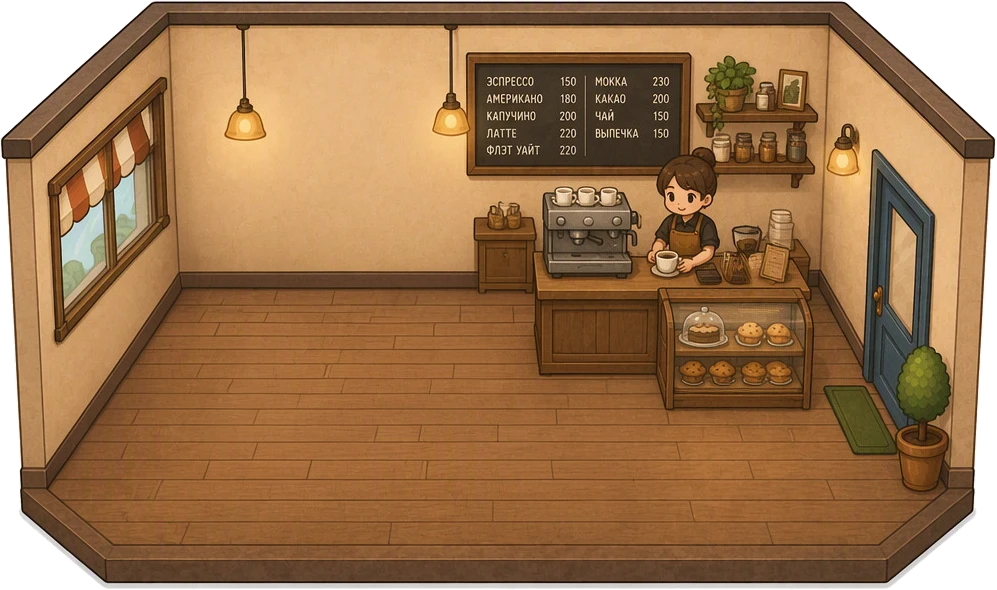
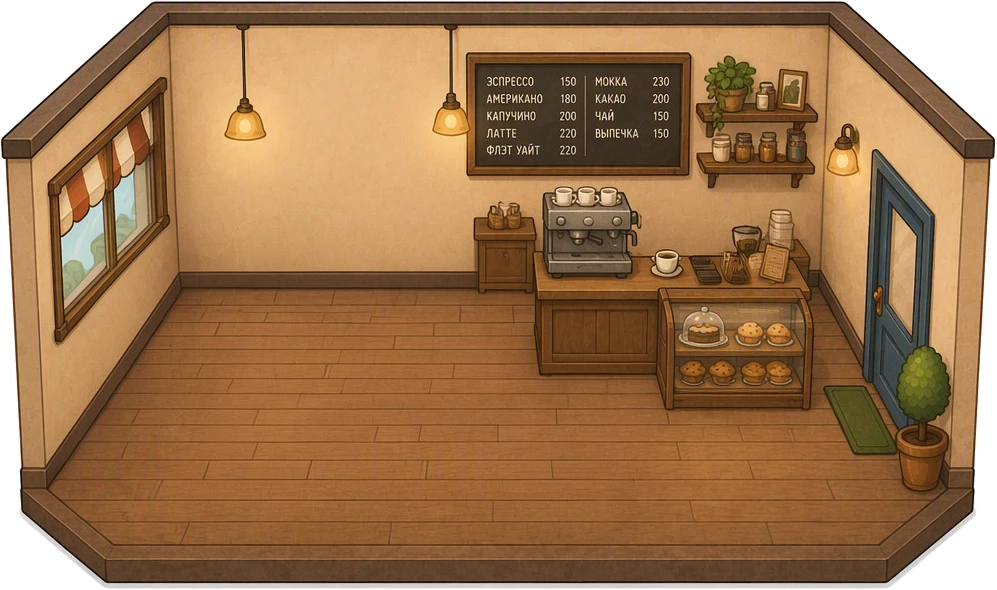
Зал кафе: бариста отдельным слоем — виден только на смене; комната без него (Magnific preciseEdit)
Claude-Session: https://claude.ai/code/session_01DHEiVcyPj9Qv6m6TjqeSZK

Changed region(s): [[0.653, 0.2441, 0.7462, 0.4881]]

diff --git a/src/game/hall.ts b/src/game/hall.ts
@@ -118,6 +118,9 @@ function menuBoard(sim: Simulation | null): string {
   return `<div class="hall-board" style="${style}" aria-label="Меню на доске"><ul>${rows}</ul></div>`;
 }
 
+/** Бариста за стойкой — отдельный слой размером с комнату (scripts/cut_hall.py): только когда он на смене */
+const baristaLayer = `<img class="hall-barista" src="${art('barista')}" alt="Бариста за стойкой">`;
+
 /** Миниатюра комплектации: тот же зал из тех же кусков, без кнопок и гостей */
 function miniHall(layout: Partial<Record<string, FurnitureId>>): string {
   const rug = layout.rug === 'rug';
@@ -199,7 +202,7 @@ export function hallTab(sim: Simulation, selected: string | null): string {
   }
 
   return `
-    <div class="hall" style="background-image:url(${roomUrl})">${menuBoard(sim)}${things}</div>
+    <div class="hall" style="background-image:url(${roomUrl})">${menuBoard(sim)}${sim.cafe.baristas > 0 ? baristaLayer : ''}${things}</div>
     ${stats}
     <h4>Готовые комплектации</h4>
     <small>Выбрал${NB}— поставил. Лишнее продаётся за${NB}полцены, совпадающее остаётся.</small>

diff --git a/src/style.css b/src/style.css
@@ -2740,3 +2740,11 @@ small.comp {
   font-weight: 700;
   color: #fff3d6;
 }
+.hall-barista {
+  position: absolute;
+  inset: 0;
+  width: 100%;
+  height: 100%;
+  z-index: 2;
+  pointer-events: none;
+}

diff --git a/scripts/cut_hall.py b/scripts/cut_hall.py
@@ -185,12 +185,45 @@ def room(empty: np.ndarray) -> tuple[Image.Image, tuple[int, int, int, int]]:
     return Image.fromarray(im).crop(box), box
 
 
+# Бариста нарисован в пустой комнате за стойкой. Комната для игры — без него (empty-clean.png, Magnific
+# preciseEdit «убрать бариста»), а сам он — отдельный слой barista.webp размером с комнату: виден, только
+# когда бариста на смене. Меняется только прямоугольник вокруг бариста — остальная комната та же.
+BARISTA_BOX = (630, 205, 770, 372)
+
+
+def split_barista(empty: np.ndarray, img: Image.Image, box: tuple[int, int, int, int]) -> Image.Image:
+    if not (SRC / 'empty-clean.png').exists():
+        return img
+    clean = load('empty-clean')
+    x0, y0, x1, y1 = BARISTA_BOX
+    diff = np.zeros(empty.shape[:2], bool)
+    d = np.abs(nd.gaussian_filter(empty.astype(float), (1.5, 1.5, 0)) - nd.gaussian_filter(clean.astype(float), (1.5, 1.5, 0))).sum(2)
+    diff[y0:y1, x0:x1] = d[y0:y1, x0:x1] > 40
+    diff = nd.binary_closing(diff, iterations=3)
+    diff = nd.binary_fill_holes(diff)
+    diff = nd.binary_dilation(diff, iterations=3)
+    soft = np.clip(nd.gaussian_filter(diff.astype(float), 1.2) * 1.6, 0, 1)
+    ox, oy, ox1, oy1 = box
+    room_rgba = np.array(img)
+    sub = (slice(oy, oy1), slice(ox, ox1))
+    # Комната: внутри маски — пиксели без бариста, плавно на краю
+    k = soft[sub][..., None]
+    room_rgba[..., :3] = (room_rgba[..., :3] * (1 - k) + clean[sub] * k).astype(np.uint8)
+    # Слой бариста: исходные пиксели с альфой маски
+    layer = np.zeros_like(room_rgba)
+    layer[..., :3] = empty[sub]
+    layer[..., 3] = (soft[sub] * 255).astype(np.uint8)
+    Image.fromarray(layer).save(OUT / 'barista.webp', quality=90)
+    return Image.fromarray(room_rgba)
+
+
 def main() -> None:
     OUT.mkdir(parents=True, exist_ok=True)
     for f in OUT.glob('*.webp'):
         f.unlink()
     empty = load('empty')
     img, (ox, oy, ox1, oy1) = room(empty)
+    img = split_barista(empty, img, (ox, oy, ox1, oy1))
     img.save(OUT / 'room.webp', quality=90)
     frames: list[str] = []
     seen: set[str] = set()
